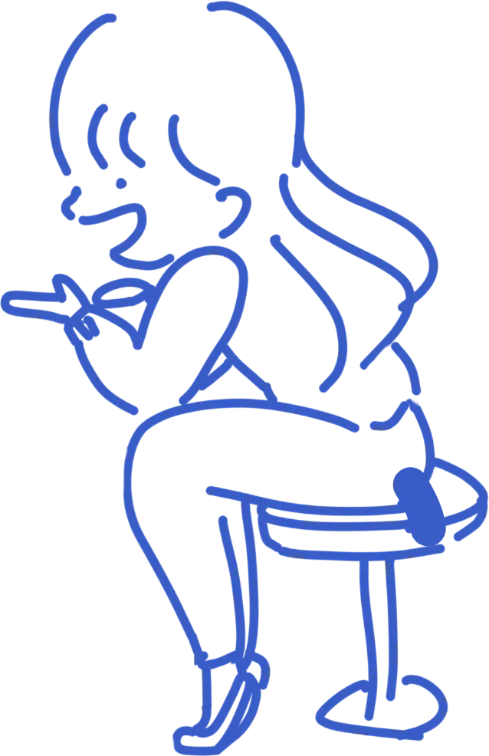
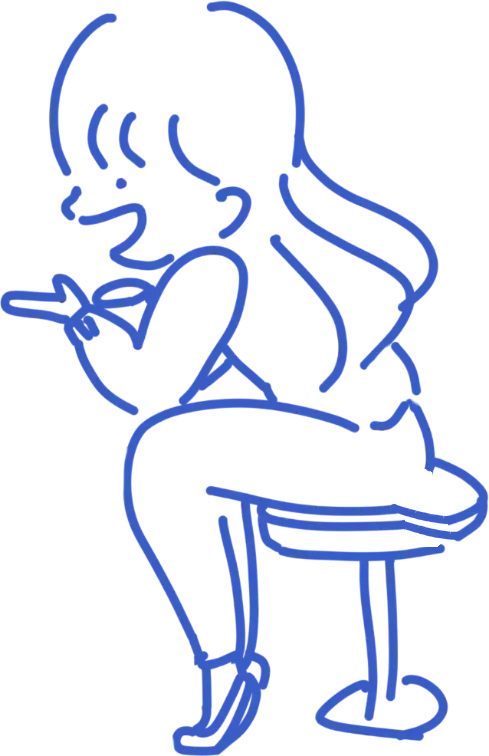
Remove filled blob from KV illustration
Claude-Session: https://claude.ai/code/session_015RnGiLFZouNiLXBrkgCp4k

Changed region(s): [[0.7975, 0.6085, 0.9509, 0.7302]]

diff --git a/radix10-y7k2q/index.html b/radix10-y7k2q/index.html
@@ -1,6 +1,6 @@
 <!doctype html>
 <html lang="ja">
-<head><link rel="preload" as="image" href="girl.webp"><meta name="color-scheme" content="only light">
+<head><link rel="preload" as="image" href="girl.webp?v=2"><meta name="color-scheme" content="only light">
 <meta charset="utf-8">
 <meta name="viewport" content="width=device-width,initial-scale=1,viewport-fit=cover">
 <meta name="robots" content="noindex,nofollow">
@@ -691,7 +691,7 @@ body.skui .kv-copy{margin-top:0!important;align-self:center!important}
   <div class="kv-top"><span class="ws">SAKIYOMI 2026年度末 全社総会</span><input id="q" type="search" placeholder="🔍 名前でさがす"><div class="me"><label for="me">あなた</label><input id="me" list="names" placeholder="名簿から選ぶ" autocomplete="off"></div></div>
   <nav id="skCh" hidden></nav>
   <div class="kv-title"><small>SAKIYOMI Inc.</small><h1>2026年度末 全社総会</h1><div class="kv-date">2026.12.19<span>Sat</span></div></div>
-  <section class="kv-hero"><div class="kv-art"><img id="kvImg" class="kv-img" src="girl.webp" width="489" height="756" fetchpriority="high" alt=""><p class="kv-copy">どうしても<br>話したいこと<br>あってさ。</p></div><div class="kv-hd">
+  <section class="kv-hero"><div class="kv-art"><img id="kvImg" class="kv-img" src="girl.webp?v=2" width="489" height="756" fetchpriority="high" alt=""><p class="kv-copy">どうしても<br>話したいこと<br>あってさ。</p></div><div class="kv-hd">
     <p>あの頃の写真と言葉を見て、<br>あなたの言葉で誘ってください。</p>
     <div class="kv-nums"><div><span>集まったメッセージ</span><b><em id="bigMsg">0</em><small>件</small></b></div><div><span>12/19 出席</span><b><em id="bigAtt">0</em><small>人</small></b></div></div>
     <div class="kv-btns"><button type="button" class="kv-p" id="rsvpMe">出席する</button><button type="button" class="kv-o" id="goMembers">メッセージを書く ↓</button></div>
